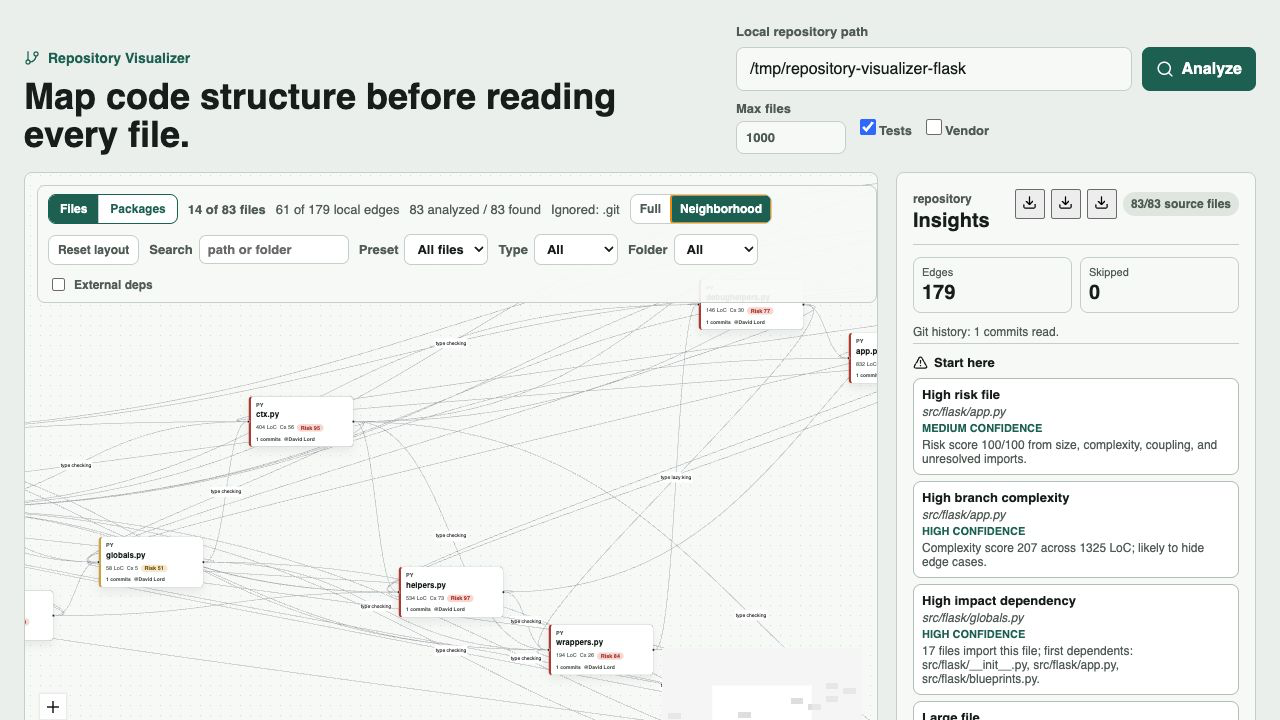
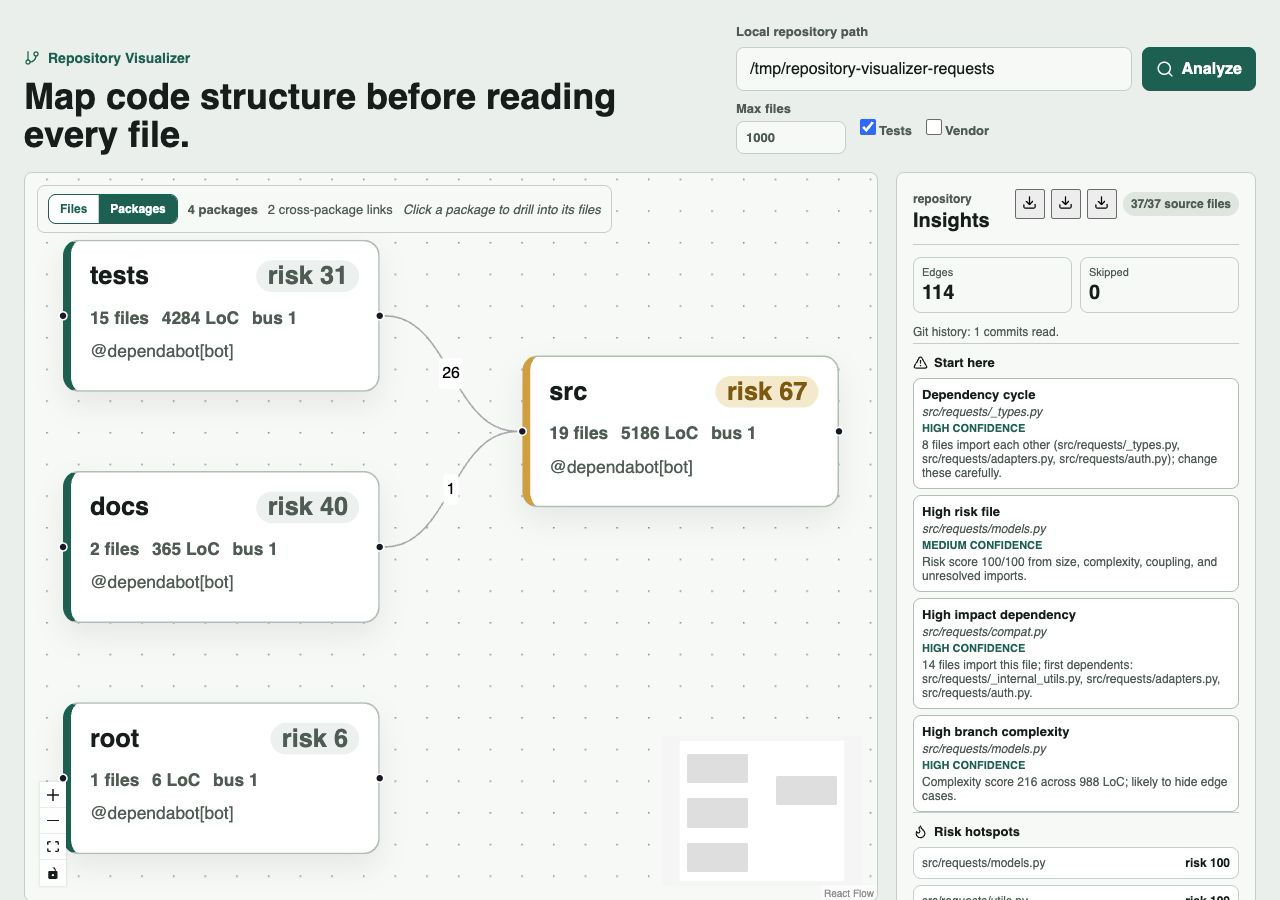
docs: use cleaner repository screenshot

diff --git a/README.md b/README.md
@@ -12,7 +12,7 @@ It is built for onboarding and refactoring. Instead of dumping a giant graph and
 - What could break if I change this file?
 - Which file-level functions/classes deserve attention before a refactor?
 
-![Repository Visualizer file view: a risk-colored dependency graph with per-file Git badges on the left, and churn-driven Start-here findings, risk hotspots, and packages by risk on the right](docs/assets/repository-visualizer.png)
+![Repository Visualizer package view: a clean package graph with cross-package links, risk scores, repository insights, hotspots, and reading order](docs/assets/repository-visualizer.png)
 
 ## Features
 